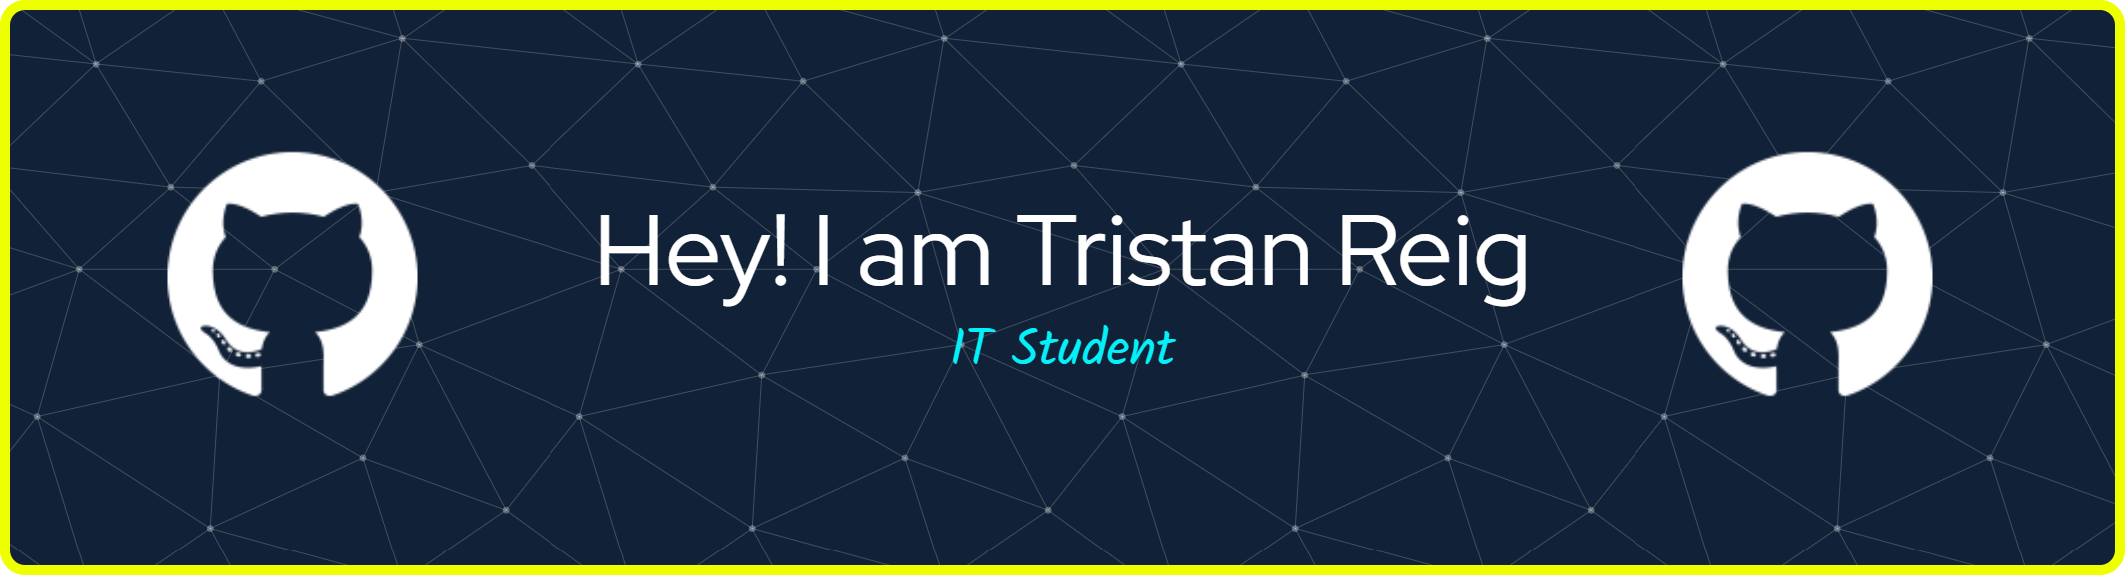
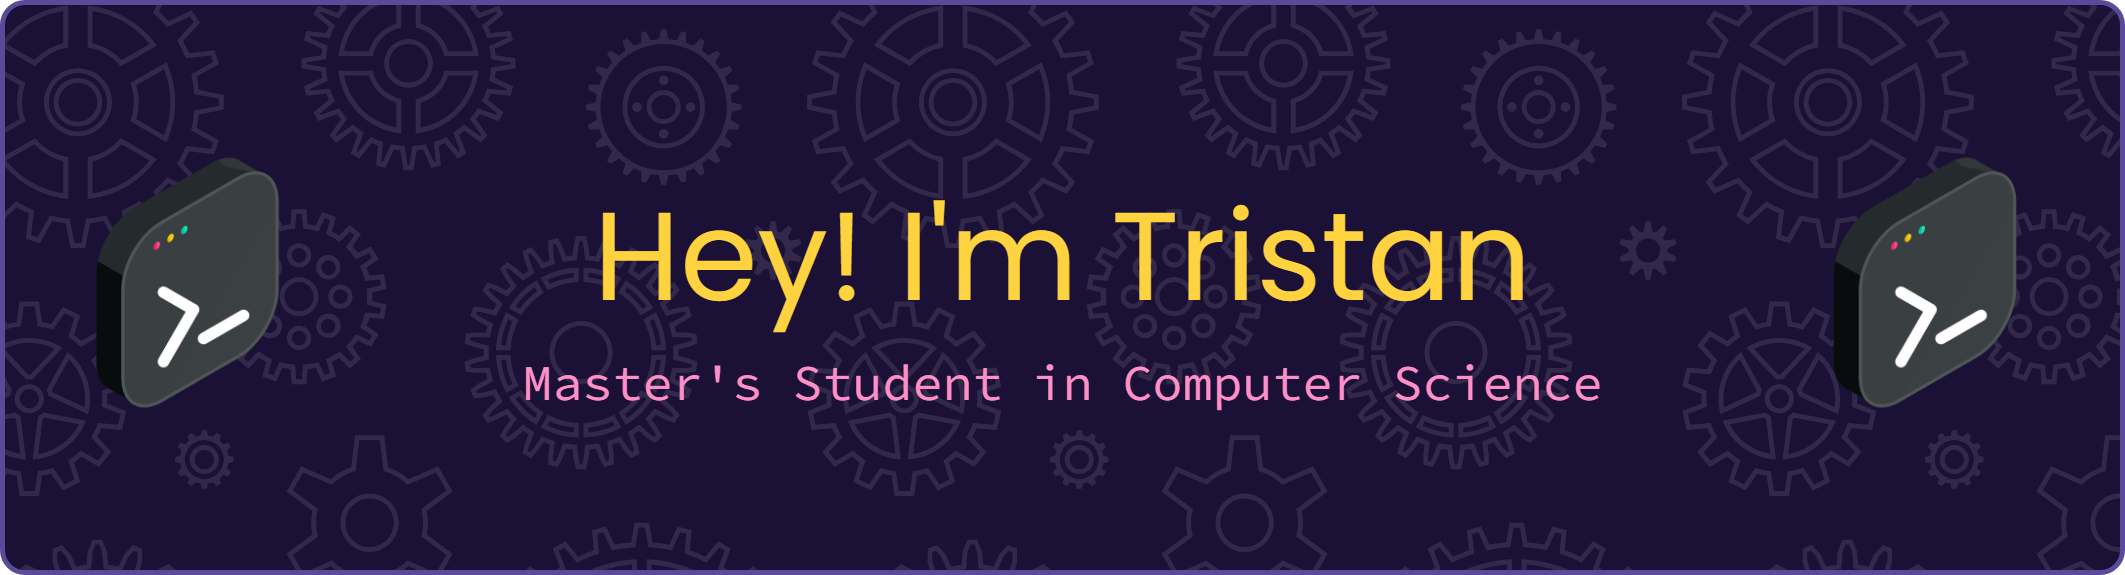
Nouvelle bannière et suppression des liens
Claude-Session: https://claude.ai/code/session_016LPPF9m9FakuURsxEcg8xC

diff --git a/README.md b/README.md
@@ -2,12 +2,6 @@
 
 ***
 <p align="center">
-  <a href="mailto:treig@student.42perpignan.fr">Email</a> •
-  <a href="https://www.linkedin.com/in/tristan-reig/">LinkedIn</a> •
-  <a href="https://gitlab.etu.umontpellier.fr/e20230002926">Gitlab</a>
-</p>
-
-<p align="center">
   <img src="assets/bonsai.gif" width="340" alt="Bonsaï généré à partir de mon activité GitHub des 30 derniers jours">
 </p>
 
